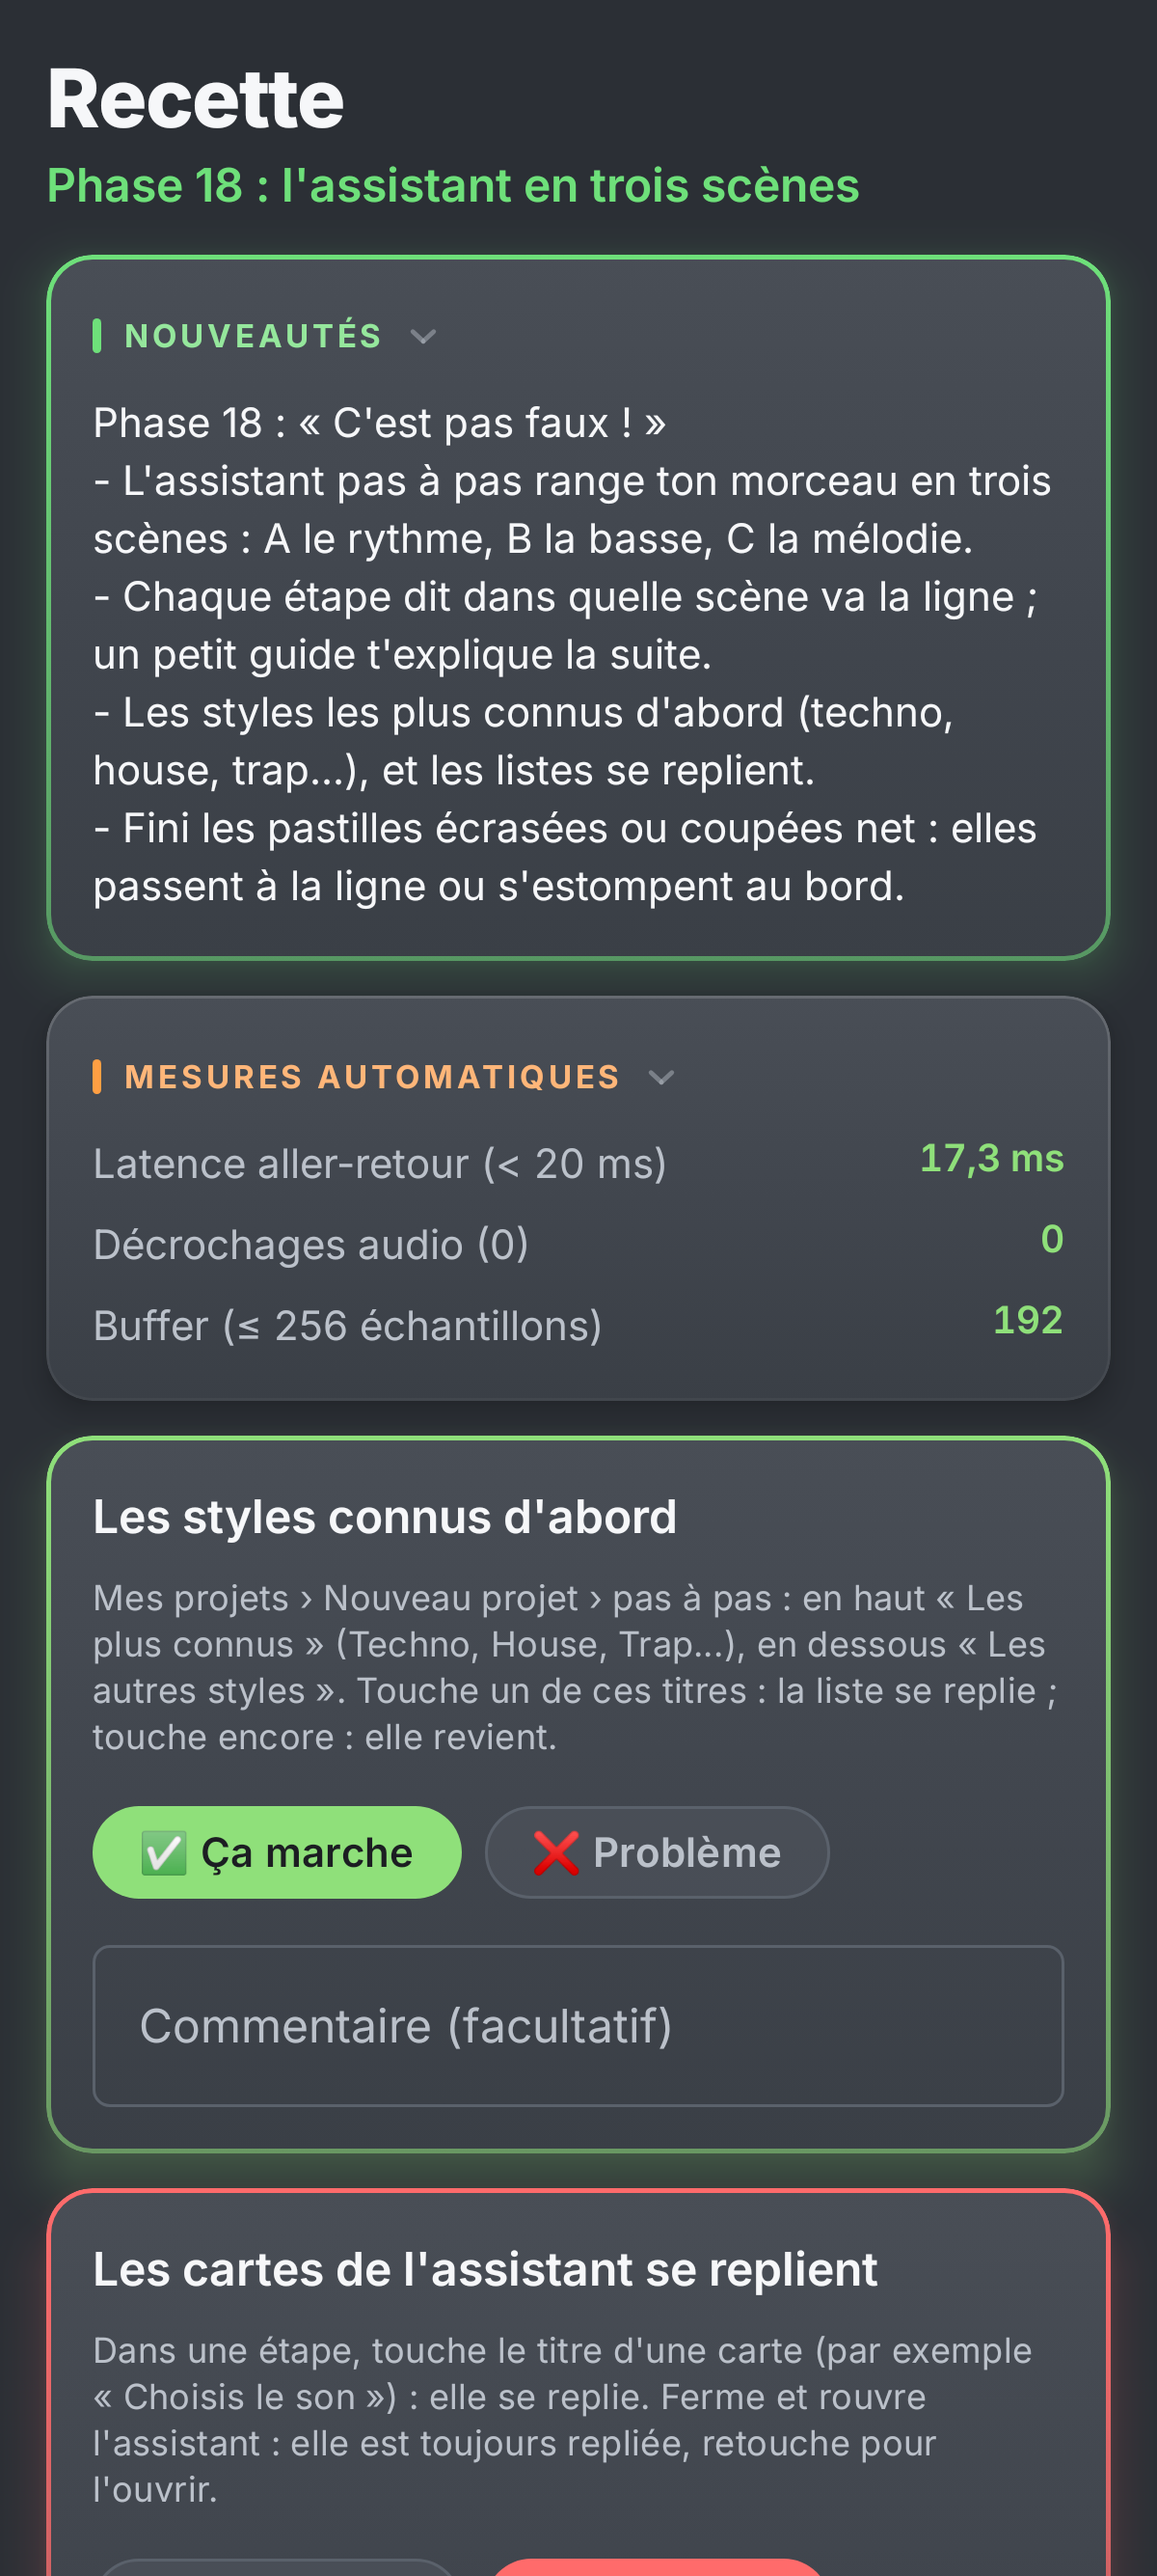
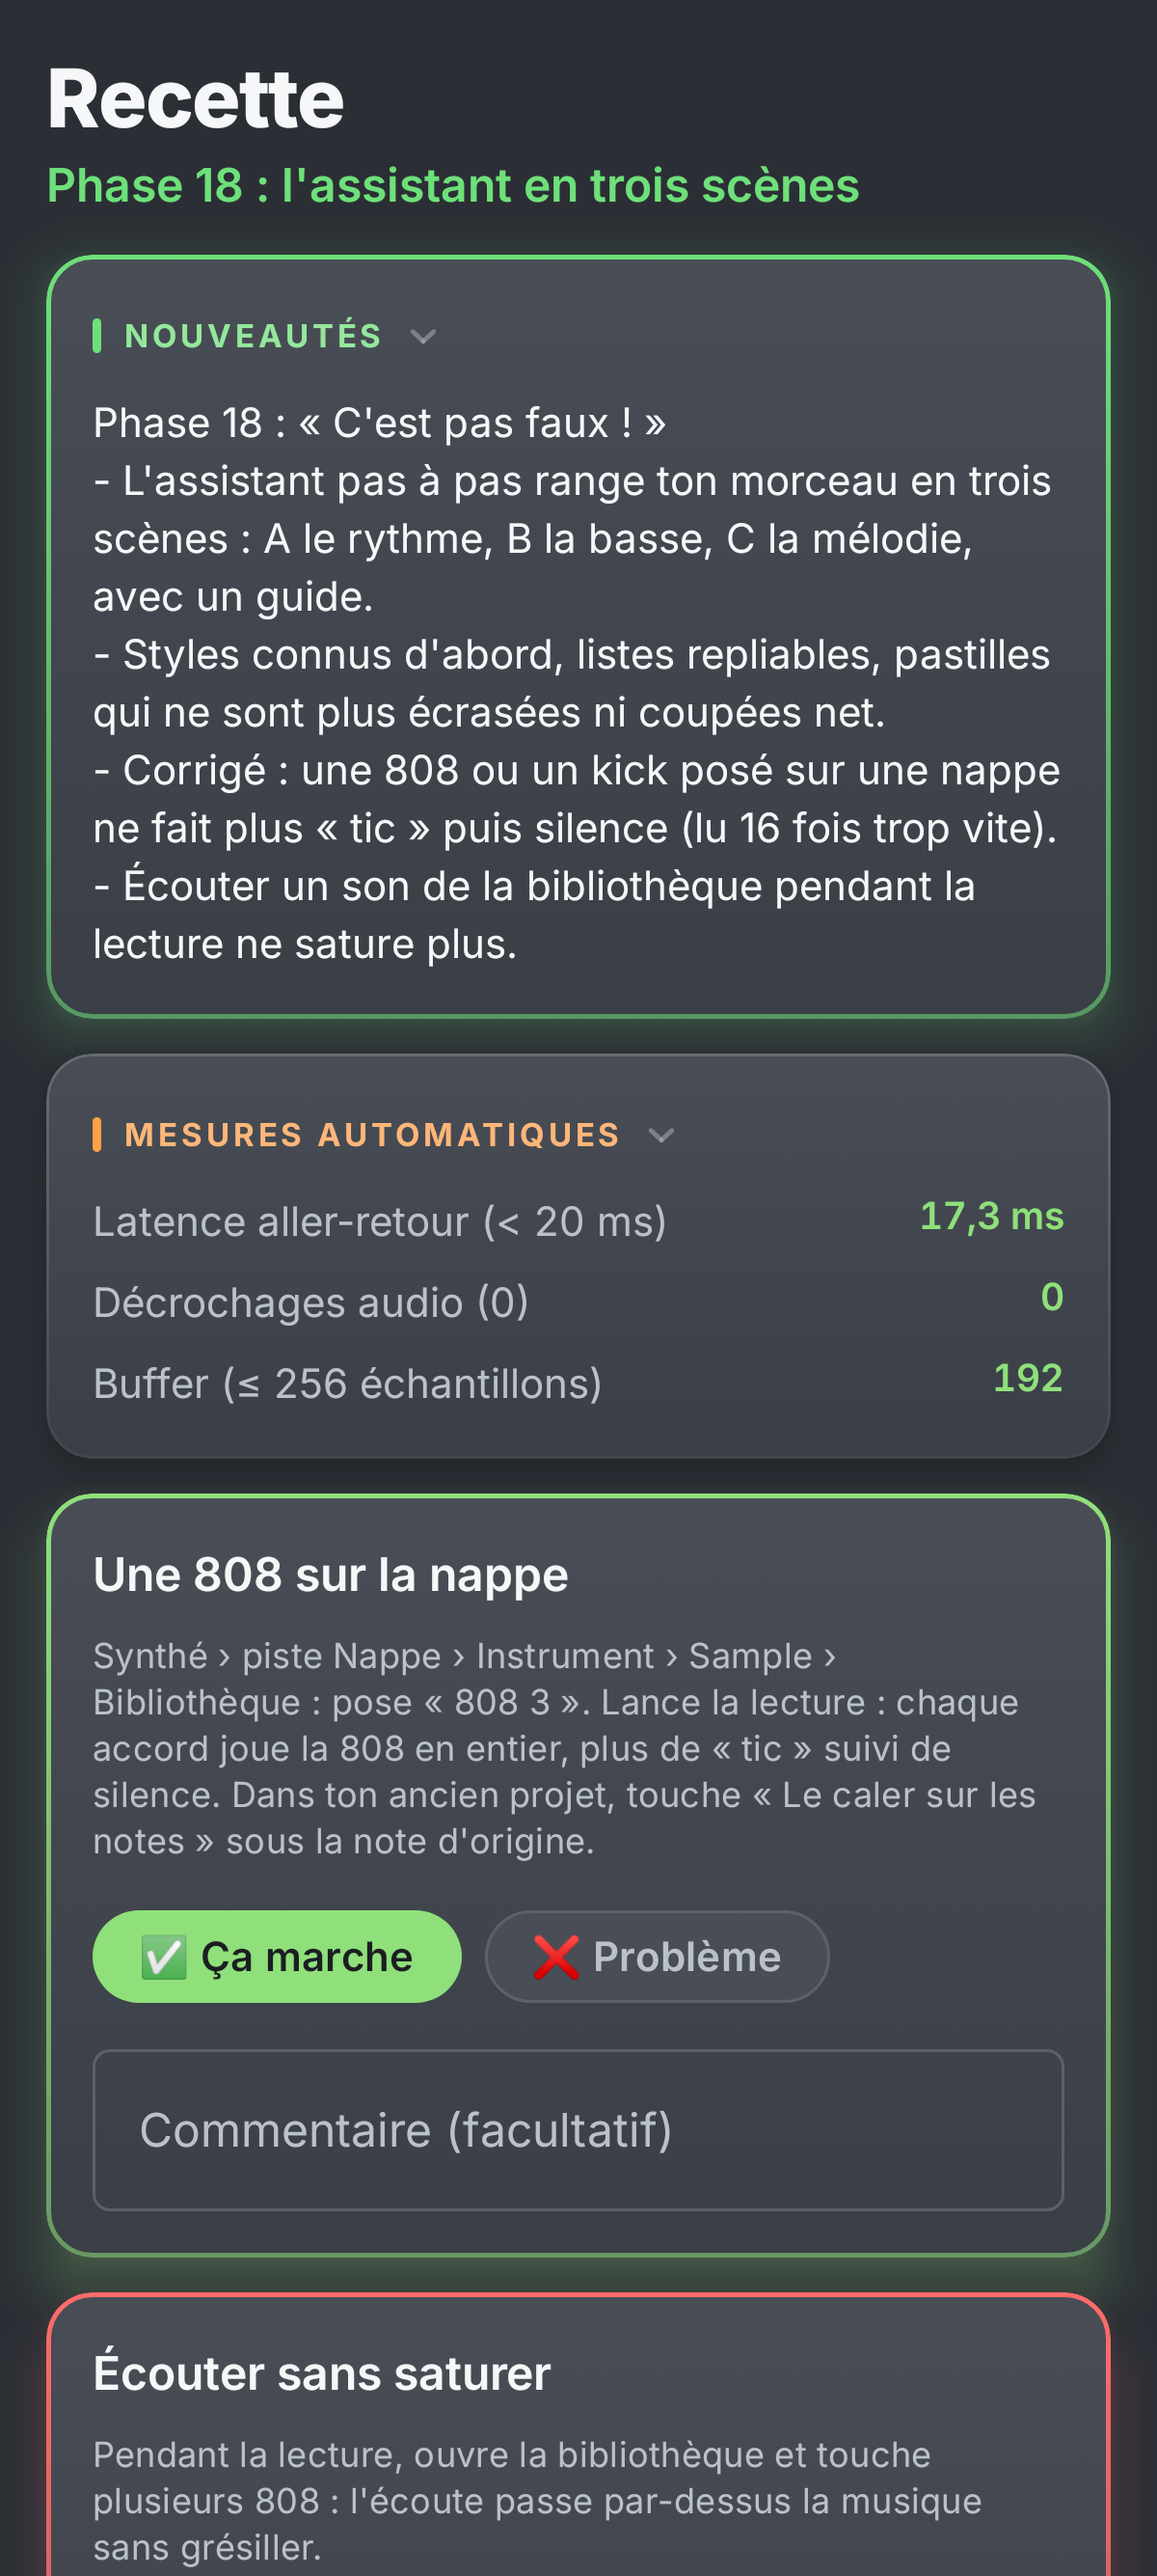
A sound put on a melodic track plays in the octave of its notes; library previews 6 dB down
Benjamin's video: an 808 (detected root La 0) put on a pad track whose
chords sit around C4 was read 16 times too fast, a tenth of a second per
chord then silence. The detected root now moves by whole octaves to the
middle of the track's notes (same note name, still in key) wherever a
sound becomes an instrument (library, file, pad to keyboard, wizard and
its previews); an 808 glides only on a single line. Existing projects get
a warning and a one-touch fix under the root note. Previews add up with
the limited song in the phone's mixer and clipped: 6 dB down.

Claude-Session: https://claude.ai/code/session_01NqonxZBBysqqWBbnsC2VTP

Changed region(s): [[0.0308, 0.2176, 0.9867, 1.0], [0.8942, 0.8082, 0.925, 0.8393]]

diff --git a/project-model/src/test/kotlin/com/pocketstudio/model/TracksTest.kt b/project-model/src/test/kotlin/com/pocketstudio/model/TracksTest.kt
@@ -4,6 +4,7 @@ import org.junit.Assert.assertEquals
 import org.junit.Assert.assertNotEquals
 import org.junit.Assert.assertNull
 import org.junit.Assert.assertTrue
+import org.junit.Assert.assertFalse
 import org.junit.Test
 
 class TracksTest {
@@ -102,5 +103,35 @@ class TracksTest {
         val p = ProjectJson.decode("""{"name":"Ancien"}""")
         assertEquals(1, p.instrumentTracks.size)
         assertEquals("Synthé", p.track(0).name)
+    }
+
+    @Test
+    fun aDeepSoundPlaysInTheOctaveOfTheChordsItIsPutOn() {
+        // The video's case: an 808 found at La 0 (MIDI 21) under chords around Do 4.
+        val chords = listOf(60, 64, 67, 70).map { Note(0, 64, it) } + listOf(62, 65, 69, 72).map { Note(64, 64, it) }
+        val root = SampledPatch.fitRoot(21f, chords)
+        // Same note name (La), a few semitones from the notes: read at about its own speed, not 16 times.
+        assertEquals(9, Math.floorMod(root.toInt(), 12))
+        assertTrue("root $root", kotlin.math.abs(root - 67f) <= 6f)
+        // Already close: unchanged; unknown: the notes' middle; nothing to play: around Do 4.
+        assertEquals(62f, SampledPatch.fitRoot(62f, chords))
+        assertEquals(67f, SampledPatch.fitRoot(null, chords))
+        assertEquals(57f, SampledPatch.fitRoot(21f, emptyList()))
+        // Chords never glide; a bass line can.
+        assertFalse(SampledPatch.isMonophonic(chords))
+        assertTrue(SampledPatch.isMonophonic(listOf(Note(0, 4, 36), Note(4, 4, 38), Note(8, 8, 41))))
+    }
+
+    @Test
+    fun theAssistantPutsAPackSoundInTheOctaveOfItsPart() {
+        val style = StarterWizard.style("dnb")!!
+        val pad = StarterWizard.soundsFor(StarterWizard.Part.Pad, style).first()
+        val sampled = pad.copy(sampled = SampledPatch(file = "x.wav", root = 21f, glide = SampledPatch.SLIDE))
+        val p = StarterWizard.build(style, emptyMap(), StarterWizard.Mood.Dark, mapOf(StarterWizard.Part.Pad to sampled))
+        val track = p.track(0)
+        val notes = p.allScenes.map { it.synthNotes }.first { it.notes.isNotEmpty() }.notes
+        val middle = notes.map { it.pitch }.sorted()[notes.size / 2]
+        assertTrue("root ${track.sampled.root} vs $middle", kotlin.math.abs(track.sampled.root - middle) <= 6f)
+        assertEquals(0f, track.sampled.glide)
     }
 }

diff --git a/app/src/main/java/com/pocketstudio/app/instruments/SampledPanel.kt b/app/src/main/java/com/pocketstudio/app/instruments/SampledPanel.kt
@@ -71,6 +71,21 @@ internal fun SampledPanel(ui: InstrumentUi) {
             Icon(Icons.Filled.Add, contentDescription = "Un demi-ton plus haut")
         }
     }
+    // Read octaves away from its own pitch, a sound lasts a fraction of itself (a 808 under chords
+    // becomes a click): say so, and put it back in the octave of the notes in one touch.
+    val fitted = SampledPatch.fitRoot(s.root, ui.notes)
+    val octaves = Math.round((fitted - s.root) / 12f)
+    if (ui.notes.isNotEmpty() && octaves != 0) {
+        Text(
+            if (octaves > 0) "Les notes de la piste jouent ce son $octaves octave${if (octaves > 1) "s" else ""} plus haut : il est lu ${1 shl minOf(octaves, 4)} fois plus vite et ne dure presque rien."
+            else "Les notes de la piste jouent ce son ${-octaves} octave${if (octaves < -1) "s" else ""} plus bas : il est lu au ralenti.",
+            style = MaterialTheme.typography.bodySmall, color = Neon.Amber,
+        )
+        OutlinedButton(
+            onClick = { ui.editSampled(null) { it.copy(root = fitted, glide = if (SampledPatch.isMonophonic(ui.notes)) it.glide else 0f) } },
+            modifier = Modifier.testTag("root_fit"),
+        ) { Text("Le caler sur les notes (${RootNote.name(fitted)})") }
+    }
     Row(horizontalArrangement = Arrangement.spacedBy(6.dp), verticalAlignment = Alignment.CenterVertically) {
         FilterChip(
             selected = s.glide > 0f,

diff --git a/project-model/src/main/kotlin/com/pocketstudio/model/Tracks.kt b/project-model/src/main/kotlin/com/pocketstudio/model/Tracks.kt
@@ -163,5 +163,22 @@ data class SampledPatch(
     companion object {
         /** Glide for an 808 slide, in seconds. */
         const val SLIDE = 0.08f
+
+        /**
+         * The root for a sound found to sound at [detected], put in the octave of the notes it will
+         * play: the same note name (the song stays in key), but a 808 found at La 0 under chords
+         * around Do 4 would otherwise be read 16 times too fast and last a tenth of a second.
+         */
+        fun fitRoot(detected: Float?, notes: List<Note>): Float {
+            val pitches = notes.map { it.pitch }.sorted()
+            val centre = if (pitches.isEmpty()) 60 else pitches[pitches.size / 2]
+            val root = detected ?: return centre.toFloat()
+            val octaves = Math.round((centre - root) / 12f)
+            return (root + 12f * octaves).coerceIn(0f, 127f)
+        }
+
+        /** True when [notes] never overlap (a line that can glide, not chords). */
+        fun isMonophonic(notes: List<Note>): Boolean =
+            notes.sortedBy { it.start }.zipWithNext().none { (a, b) -> b.start < a.end }
     }
 }

diff --git a/app/src/main/java/com/pocketstudio/app/rhythm/RhythmViewModel.kt b/app/src/main/java/com/pocketstudio/app/rhythm/RhythmViewModel.kt
@@ -886,12 +886,14 @@ class RhythmViewModel(app: Application) : AndroidViewModel(app) {
                     _trackSoundBusy.value = "La piste a été supprimée entre-temps : rien n'a changé."
                     return@launch
                 }
-                val slide = kind == "808"
+                // A 808 glides, unless the track plays chords (one gliding voice would drop them).
+                val notes = project.value.track(id).notes.notes
+                val slide = kind == "808" && SampledPatch.isMonophonic(notes)
                 editTrack(id = id) {
                     it.copy(
                         engine = 2, instrument = null,
                         sampled = SampledPatch(
-                            file = sample.file, name = name, root = root ?: 60f,
+                            file = sample.file, name = name, root = SampledPatch.fitRoot(root, notes),
                             glide = if (slide) SampledPatch.SLIDE else 0f,
                             release = if (slide || kind == "bass") 0.08f else 0.2f,
                         ),

diff --git a/app/src/main/java/com/pocketstudio/app/library/SoundLibraryViewModel.kt b/app/src/main/java/com/pocketstudio/app/library/SoundLibraryViewModel.kt
@@ -431,7 +431,8 @@ class SoundLibraryViewModel(app: Application) : AndroidViewModel(app) {
                     sound.plaits?.let { p -> p.sanitized().engineValues().forEachIndexed { i, v -> NativeEngine.setPlaitsParam(i, v, track) } }
                     val sample = natives[beat.size + track]
                     if (sample != null) {
-                        val patch = sound.sampled!!.copy(root = partAudio[track]?.second ?: 60f)
+                        val heard = StarterWizard.startingNotes(part, style, mood, harmony).notes
+                        val patch = sound.sampled!!.copy(root = com.pocketstudio.model.SampledPatch.fitRoot(partAudio[track]?.second, heard))
                         patch.engineValues().forEachIndexed { i, v -> NativeEngine.setTrackSampleParam(i, v, track) }
                         NativeEngine.setTrackSample(track, sample)  // the export engine keeps its own reference
                     }

diff --git a/app/src/main/java/com/pocketstudio/app/audio/PcmPlayer.kt b/app/src/main/java/com/pocketstudio/app/audio/PcmPlayer.kt
@@ -29,6 +29,9 @@ class PcmPlayer(private val onStop: () -> Unit = {}) {
             t.release()
             return false
         }
+        // Pack sounds are normalised near full scale and this track adds up with the song (already
+        // limited at -1 dB) in the phone's mixer: 6 dB down keeps a preview over the music clean.
+        t.setVolume(PREVIEW_GAIN)
         t.setNotificationMarkerPosition(pcm.frames)
         t.setPlaybackPositionUpdateListener(object : AudioTrack.OnPlaybackPositionUpdateListener {
             override fun onMarkerReached(at: AudioTrack) {
@@ -47,5 +50,10 @@ class PcmPlayer(private val onStop: () -> Unit = {}) {
         runCatching { t.stop() }
         t.release()
         onStop()
+    }
+
+    companion object {
+        /** -6 dB (see [play]). */
+        const val PREVIEW_GAIN = 0.5f
     }
 }

diff --git a/project-model/src/main/kotlin/com/pocketstudio/model/StarterWizard.kt b/project-model/src/main/kotlin/com/pocketstudio/model/StarterWizard.kt
@@ -305,7 +305,11 @@ object StarterWizard {
                         sound.plaits != null -> 1
                         else -> 0
                     },
-                    plaits = sound.plaits ?: plaits, sampled = sound.sampled ?: sampled,
+                    plaits = sound.plaits ?: plaits,
+                    // A pack sound plays in the octave of the part's notes (and glides only on a single line).
+                    sampled = sound.sampled?.let { s ->
+                        s.copy(root = SampledPatch.fitRoot(s.root, notes.notes), glide = if (SampledPatch.isMonophonic(notes.notes)) s.glide else 0f)
+                    } ?: sampled,
                 )
                 if (first) {
                     project = project.withTrack(project.track(0).withSound())

diff --git a/app/src/main/java/com/pocketstudio/app/ui/AppRoot.kt b/app/src/main/java/com/pocketstudio/app/ui/AppRoot.kt
@@ -813,6 +813,7 @@ fun AppRoot() {
                                 setPlaitsModel = rhythmVm::setPlaitsModel,
                                 setPlaitsParam = rhythmVm::setPlaitsParam,
                                 sampled = project.sampled,
+                                notes = project.synthNotes.notes,
                                 chooseSample = { rhythmVm.dismissTrackSoundMessage(); libraryTrack = true; showLibrary = true },
                                 importSample = { rhythmVm.dismissTrackSoundMessage(); pickKeyboardSound.launch(arrayOf("audio/*")) },
                                 editSampled = rhythmVm::editSampled,

diff --git a/app/src/main/java/com/pocketstudio/app/instruments/InstrumentPanel.kt b/app/src/main/java/com/pocketstudio/app/instruments/InstrumentPanel.kt
@@ -65,6 +65,8 @@ class InstrumentUi(
     val setPlaitsModel: (Int) -> Unit = {},
     val setPlaitsParam: (Int, Float) -> Unit = { _, _ -> },
     val sampled: SampledPatch = SampledPatch(),
+    /** The notes the track plays (to tell a sampled sound read far from its own pitch). */
+    val notes: List<com.pocketstudio.model.Note> = emptyList(),
     /** Opens the sound library to pick the track's sampled sound. */
     val chooseSample: () -> Unit = {},
     /** Picks a sound file of the phone for it. */

diff --git a/docs/DECISIONS.md b/docs/DECISIONS.md
@@ -160,3 +160,5 @@
 - 2026-10-20 · Guide après l'assistant : à chaque morceau créé pas à pas (c'est la fin du tuto), « Passer » à tout moment ; pas de case « ne plus montrer » pour l'instant.
 - 2026-10-20 · Trois scènes au lieu de deux (demande de Benjamin, « même s'il faut ajouter une ou deux pistes ») : A = batterie, B = basse, 808 et acide, C = nappe et lead ; les trois parties mélodiques sont cochées par défaut dans l'assistant pour remplir C. Sans mélodie : A kick, caisse claire, clap ; B charleys ; C percussions et 808. Une scène vide part en copie de la précédente. Retour arrière : `ScenePlan.COUNT` et `scenePlan`.
 - 2026-10-20 · Pastilles : les rangées de choix sans défilement deviennent des `FlowRow` (passage à la ligne) ; les rangées qui défilent s'estompent sur le bord où il reste du contenu (`fadingEdges`). Retour arrière : `Row` + `horizontalScroll`.
+- 2026-10-20 · Son posé sur une piste mélodique (vidéo de Benjamin : une 808 sur la nappe faisait « tic » puis silence) : la note d'origine détectée (La 0) est mise dans l'octave des notes de la piste (même nom de note, le morceau reste juste) au lieu d'être lue 16 fois trop vite ; pas de glisse 808 sur une piste qui joue des accords. Projets existants : avertissement et bouton « Le caler sur les notes ». Retour arrière : `SampledPatch.fitRoot`.
+- 2026-10-20 · Écoutes de la bibliothèque à −6 dB : elles s'additionnent à la musique dans le mélangeur du téléphone et saturaient.

diff --git a/docs/REVIEW.md b/docs/REVIEW.md
@@ -450,3 +450,4 @@ Restant (mineur) :
 - Replier la carte d'une ligne cache aussi « Utiliser cette ligne » et le repère de scène (le titre reste visible pour rouvrir).
 - Un groupe « Les plus connus » replié le reste la fois suivante (mémorisé, comme les cartes).
 - Après la relecture, à la demande de Benjamin : trois scènes au lieu de deux (tests réécrits : partage par style, copies des scènes vides, aller-retour JSON et changement de scène) ; pastilles qui passent à la ligne ou s'estompent au bord.
+- Bug audio de la vidéo de Benjamin (22 h 54) : 808 posée sur des accords lue 16 fois trop vite (note d'origine La 0 sous des notes autour du Do 4) → « tic » d'un dixième de seconde par mesure puis silence. Corrigé partout où un son devient un instrument (bibliothèque, fichier, pad au clavier, assistant et ses écoutes), avec un test du cas exact ; écoute qui saturait par-dessus la musique : −6 dB.

diff --git a/docs/ROADMAP.md b/docs/ROADMAP.md
@@ -143,4 +143,5 @@ Feu vert de Benjamin (D4 = A) : fusion de la pull request en fin de phase.
 - [x] 18.2 Repli partout où il a un sens : cartes de l'assistant, groupes de styles, familles de sons Plaits
 - [x] 18.3 Le morceau de l'assistant coupé en trois scènes : A le rythme (batterie), B la basse (basse, 808, acide), C la mélodie (nappe, lead, cochés par défaut) ; sans mélodie, A kick, caisse claire et clap, B charleys, C percussions et 808 ; morceau A, B, C ×2
 - [x] 18.4 Le tuto le dit : chaque étape montre la scène de sa ligne, le résumé montre les trois scènes, un guide de 4 pages s'ouvre après la création
+- [x] 18.6 Son posé sur une piste mélodique joué dans l'octave de ses notes (plus de 808 lue 16 fois trop vite), écoutes sans saturation
 - [x] 18.5 Pastilles propres : les rangées de choix passent à la ligne au lieu d'écraser la dernière, les rangées qui défilent s'estompent au bord
